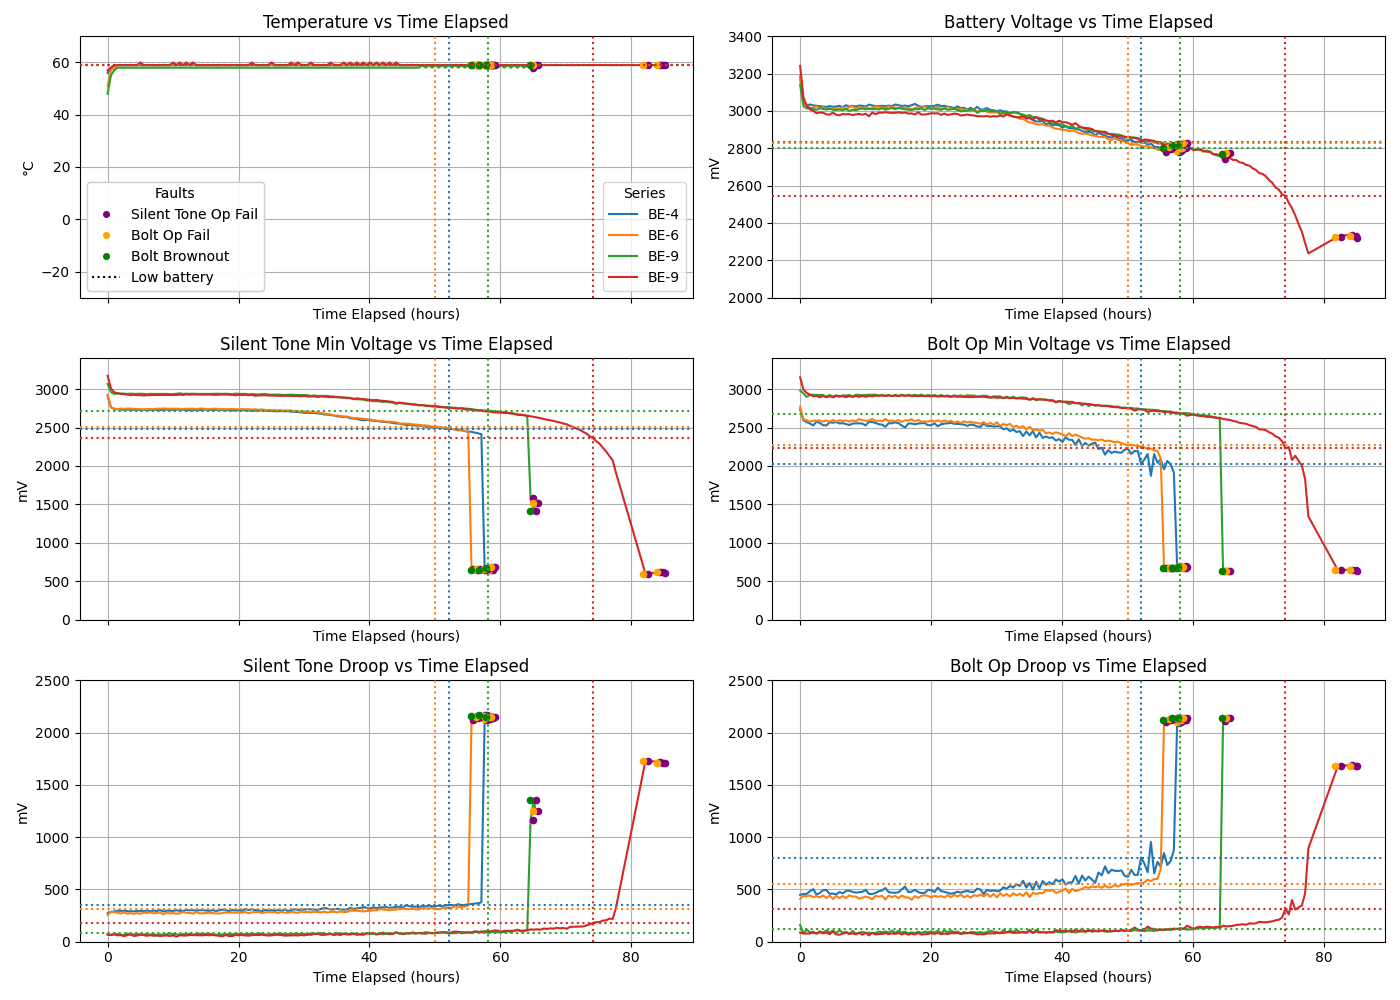
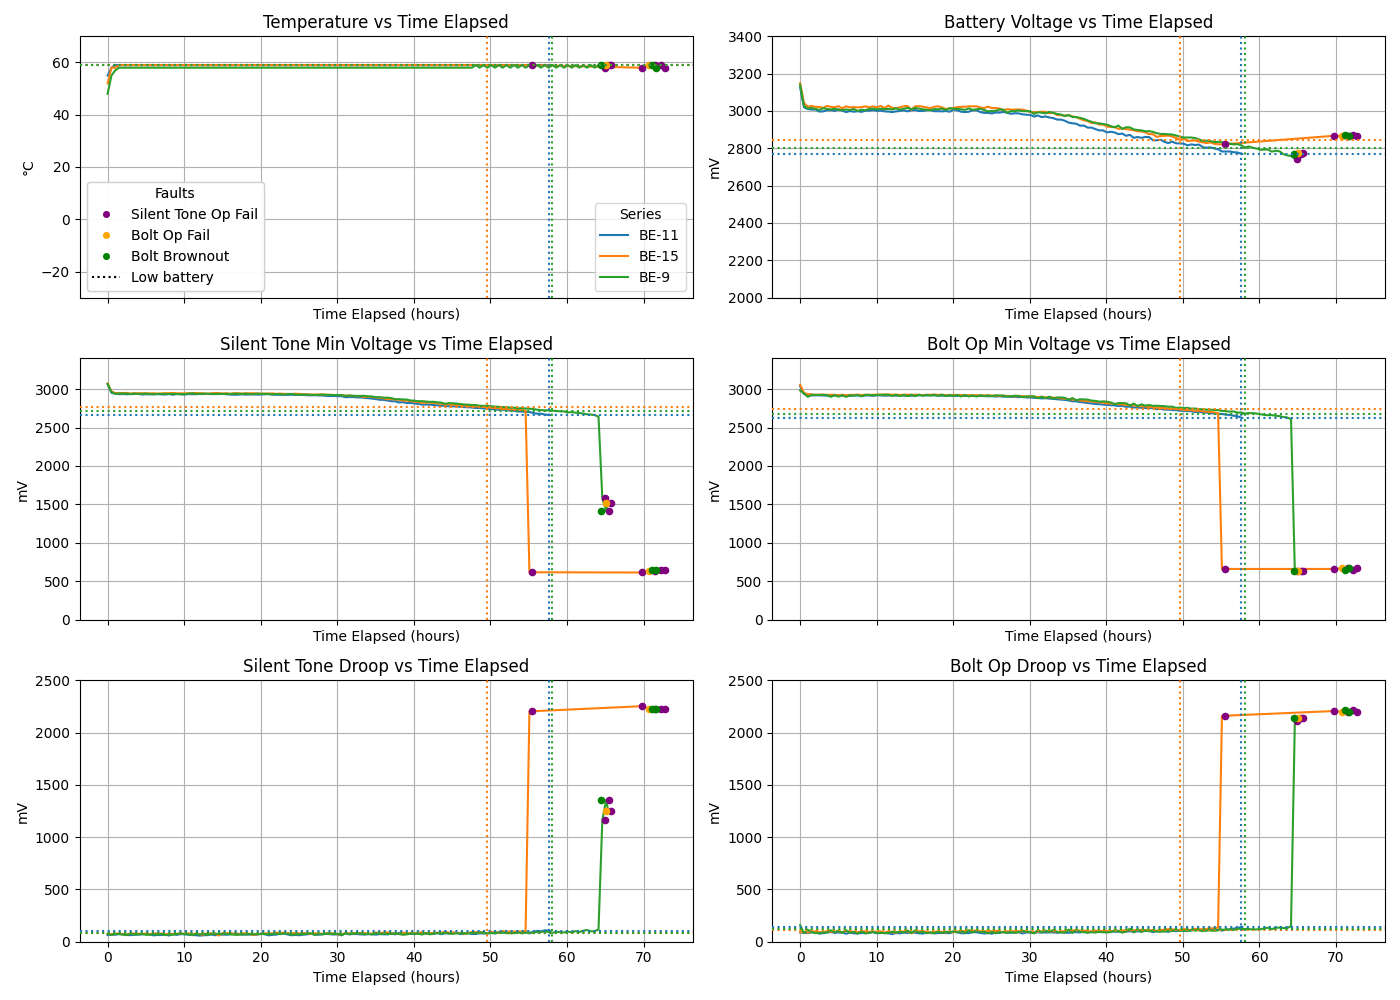
energizer 60c

diff --git a/plot_folder.py b/plot_folder.py
@@ -6,7 +6,7 @@ import numpy as np  # NEW
 from matplotlib.lines import Line2D
 
 # CONFIGURATION
-CSV_DIR = "csvs/manufacturers-cross-temp/temp-60c/amazon"
+CSV_DIR = "csvs/manufacturers-cross-temp/temp-60c/energizer"
 CSV_TAG = os.path.basename(os.path.normpath(CSV_DIR))
 PLOT_OUTPUT = f"plots/compare_all_{CSV_DIR.replace("/", "-")}.png"
 COMPUTE_LOW_BATT_BY_ALL_FAULTS=True
